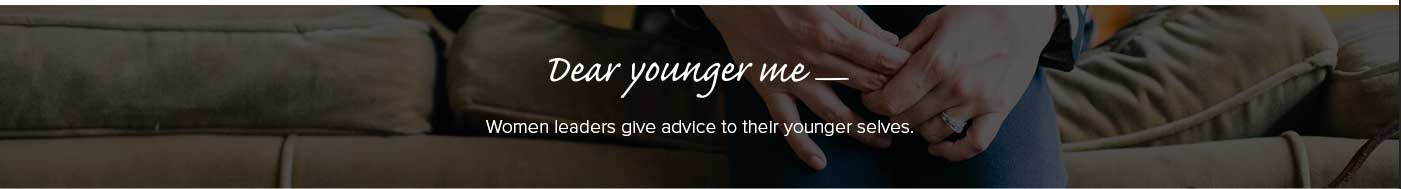
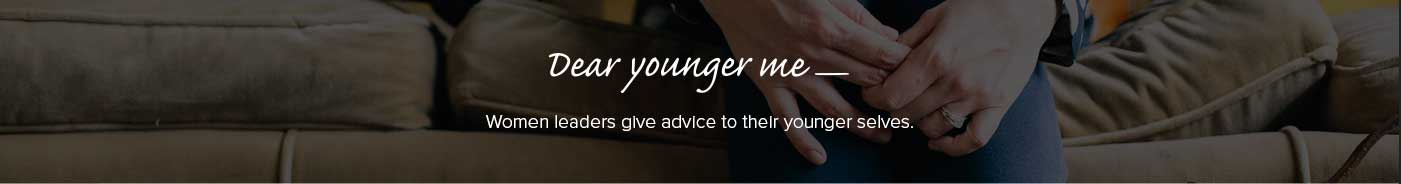
font-weight fixed

diff --git a/pages/profiles/roksolana.html b/pages/profiles/roksolana.html
@@ -94,13 +94,14 @@
 								<p id="prostatus">Roksolana Parygin</p>
 								<p id="substatus">Director of Email Marketing at Inflection</p>
 					
-								<p id="share">Share Roksolana's insights:</p>
+								<p id="insights">Share Roksolana's insights:</p>
 								<div class="mediaicons">
 									<!-- <span class='st_facebook_large' displayText='Facebook' color='#444172'></span>
 									<span class='st_twitter_large' displayText='Tweet'></span>
 									<span class='st_linkedin_large' displayText='LinkedIn'></span> -->
 					                <a href="http://www.facebook.com/sharer.php?u=ahttp://www.ambitionspotlight.com/users/dele-sobomehin"><i class="fa fa-facebook-square fa-2x"></i></a>
-					                <a href="https://www.linkedin.com/profile/view?id=2829952&authType=NAME_SEARCH&authToken=PFHn&locale=en_US&trk=tyah2&trkInfo=idx%3A1-1-1%2CtarId%3A1422658216465%2Ctas%3ARoksolana"><i class="fa fa-linkedin-square fa-2x"></i></a>
+					                <a href="http://www.linkedin.com/shareArticle?mini=true&url=http://www.inflection.com/DearYoungerMe" target="_blank"><i class="fa fa-linkedin-square fa-2x"></i></a>
+					                <!--<a href="https://www.linkedin.com/profile/view?id=2829952&authType=NAME_SEARCH&authToken=PFHn&locale=en_US&trk=tyah2&trkInfo=idx%3A1-1-1%2CtarId%3A1422658216465%2Ctas%3ARoksolana"><i class="fa fa-linkedin-square fa-2x"></i></a>-->
 					                <a href="http://twitter.com/share?text=www.inflection.com/dearyoungerme"><i class="fa fa-twitter-square fa-2x"></i></a>
 
 					            </div>
@@ -204,7 +205,8 @@
 
 								                <div class="profiletext">
 								                    <p class="bioinfo">Maria Vassalo</p>
-								                    <p class="biosubinfo">Lead Senior Visual Designer, Identity.com</p>
+								                    <p class="biosubinfo">Lead Senior Visual Designer,</p>
+								                     <p class="titlesubinfo">identity.com</p>
 								                </div>   
 
 	                        				</div>
@@ -220,7 +222,8 @@
 
 								                <div class="profiletext">
 								                    <p class="bioinfo">Jae Ko</p>
-								                    <p class="biosubinfo">Lead Senior Visual Designer, PeopelSmart.com</p>
+								                    <p class="biosubinfo">Lead Senior Visual Designer,</p>
+								                     <p class="titlesubinfo">PeopleSmart</p>
 								                </div>
 	                        				</div>
 	                    				</div>
@@ -235,7 +238,8 @@
 
 								                <div class="profiletext">    
 								                    <p class="bioinfo">Abeer Kadham</p>
-								                    <p class="biosubinfo">Front-End Developer, Inflection.com</p>
+								                    <p class="biosubinfo">Front-End Developer,</p>
+								                     <p class="titlesubinfo">Inflection.com</p>
 								                </div>
 
 	                       					 </div>
@@ -268,7 +272,7 @@
 	                       				 <div id="profilebox">
 
 									          <!-- <img class="profilepic" src="imgs/abeer.png"> -->
-									        <img class="profilepic" src="../../assets/imgs/landing/palcehold.png">
+									        <img class="profilepic" src="../../assets/imgs/landing/placehold.png">
 
 									        <div class="profiletext">
 									            <p class="bioinfo">Michelle Steinbeck</p>
@@ -304,7 +308,8 @@
 
 								            <div class="profiletext">
 									            <a href=""></a><p class="bioinfo">Julie Price</p>
-									            <p class="biosubinfo">Director of Product, Identity.com</p>
+									            <p class="biosubinfo">Director of Product,</p>
+									             <p class="titlesubinfo">Identity.com</p>
 								            </div>
 
 	                        			</div>
@@ -352,7 +357,8 @@
 
 									                <div class="profiletext">
 									                    <p class="bioinfo">Maria Vassalo</p>
-									                    <p class="biosubinfo">Lead Senior Visual Designer, Identity.com</p>
+									                    <p class="biosubinfo">Lead Senior Visual Designer,</p>
+									                    <p class="titlesubinfo">Identity.com</p>
 									                </div>   
 
 			                        			</div>
@@ -368,7 +374,8 @@
 
 									                <div class="profiletext">
 									                    <p class="bioinfo">Jae Ko</p>
-									                    <p class="biosubinfo">Lead Senior Visual Designer, PeopleSmart.com</p>
+									                    <p class="biosubinfo">Lead Senior Visual Designer</p>
+									                     <p class="titlesubinfo">PeopleSmart.com</p>
 									                </div>
 			                        			</div>
 			                    			</div>
@@ -383,7 +390,8 @@
 
 									                <div class="profiletext">    
 									                    <p class="bioinfo">Abeer Kadham</p>
-									                    <p class="biosubinfo">Front-End Developer, Inflection.com</p>
+									                    <p class="biosubinfo">Front-End Developer,</p>
+									                     <p class="titlesubinfo">Inflection.com</p>
 									                </div>
 
 			                        			</div>

diff --git a/assets/css/profiles/roksolana.css b/assets/css/profiles/roksolana.css
@@ -9,11 +9,11 @@ src:
 }
 
 @font-face{
-font-family: "Karbon";
+font-family: 'Karbon';
   src:
-      local("Karbon"),
-      local("Karbon"),
-      url("../../fonts/Karbon-Light.otf")  format("opentype");
+      local('Karbon'),
+      local('Karbon'),
+      url("../../fonts/Karbon-Light.otf");
 }
 
 @font-face{
@@ -77,28 +77,6 @@ body{
 	background-size: cover;
 }
 
-.title{
-	max-width: 435px;
-	position: absolute;
-	top: 50%;
-	left: 50%;
-	transform: translate(-50%, -50%);
-
-}
-
- .title h1{
-	font-family: Proxima-Nova;
-	font-style: italic;
-	font-size: 32px;
-	color: white;
-}
-.title h2{
-	font-family: Proxima-Nova;
-	font-style: light;
-	font-size: 19px;
-	color: white;
-}
-
 .star{
 	/*margin-left: 100px;*/
 }
@@ -140,37 +118,39 @@ body{
 }*/
 
 #prostatus{
-	font-family: 'Karbon-Semibold';
+	font-family: Karbon-Semibold;
 	font-size: 24px;
 	text-align: left;
 	color: #3c3c3c;
 	margin-top: 20px;
+	margin-bottom: 2px;
 }
 
 #substatus{
-	font-family: 'Karbon';
+	font-family: Karbon-Light;
 	font-size: 21px;
 	color: #5c5c5c;
+	margin-bottom: 20px;
 }
 
-#share{
-	font-family: 'Karbon';
+#insights{
+	font-family: Karbon-Light;
 	font-size: 21px;
 	color: #5c5c5c;
+	margin-bottom: 20px;
 }
 
 .mediaicons {
     color: #444172;
     text-indent: 1em;
-    margin-left: 0px;
+    position: absolute;
+    margin-left: -25px;
 
 }
 
 
 .mediaicons:hover{
-
 	color: #3c3d4d;
-
 }
 
 .blurb{
@@ -178,7 +158,7 @@ body{
 	max-width: 650px;
 }
 .one{
-	font-family: 'Proxima-Nova-Semibold';
+	font-family: Proxima Nova;
 	font-size: 24px;
 	text-align: left;
 	margin-bottom: 0px;	
@@ -186,10 +166,10 @@ body{
 }
 
 .two{
-	font-family: 'Proxima-Nova';
+	font-family: Proxima Nova;
 	font-size: 19px;
 	text-align: left;
-	margin-bottom: 45px;
+	margin-bottom: 40px;
 	color: #5c5c5c;
 }
 
@@ -228,6 +208,10 @@ body{
 	font-size: 16px;
 	text-align: left;
 	margin-bottom: -15px;
+}
+
+a:active{
+	color: #444172;
 }
 
 #griddvdr{
@@ -285,6 +269,7 @@ body{
     background-color: #eef1f3;
     max-width: 230px;
     */
+    margin-top: -40px;
 }
 
 /*Profile Layout*/
@@ -315,9 +300,9 @@ body{
 .biosubinfo{
    font-weight: lighter;
    font-family: "Proxima-Nova";
-   font-size: 14.9px;
-   margin-bottom: -12px;
-   margin-top: -9px;
+   font-size: 15px;
+   /*margin-bottom: -5px;*/
+   /*margin-top: -5px;*/
 }
 
 .viewbtn{
